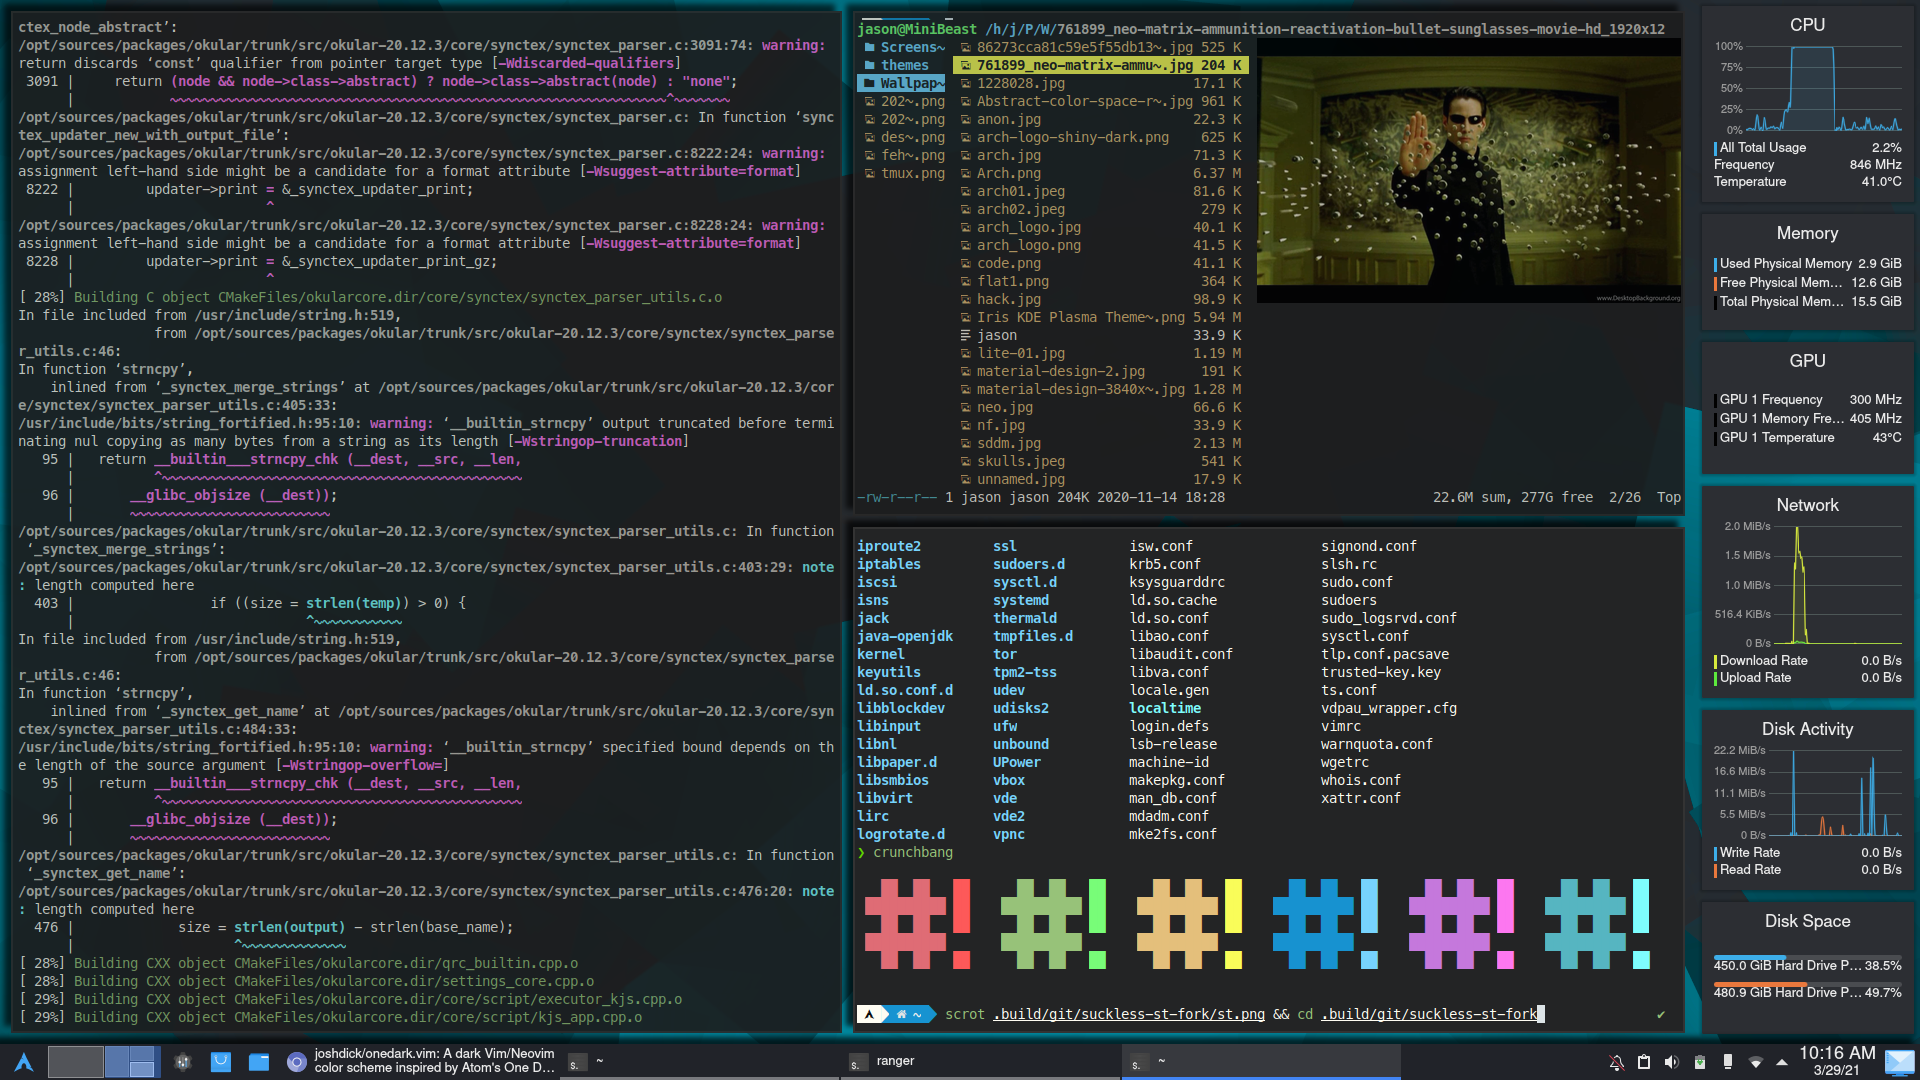
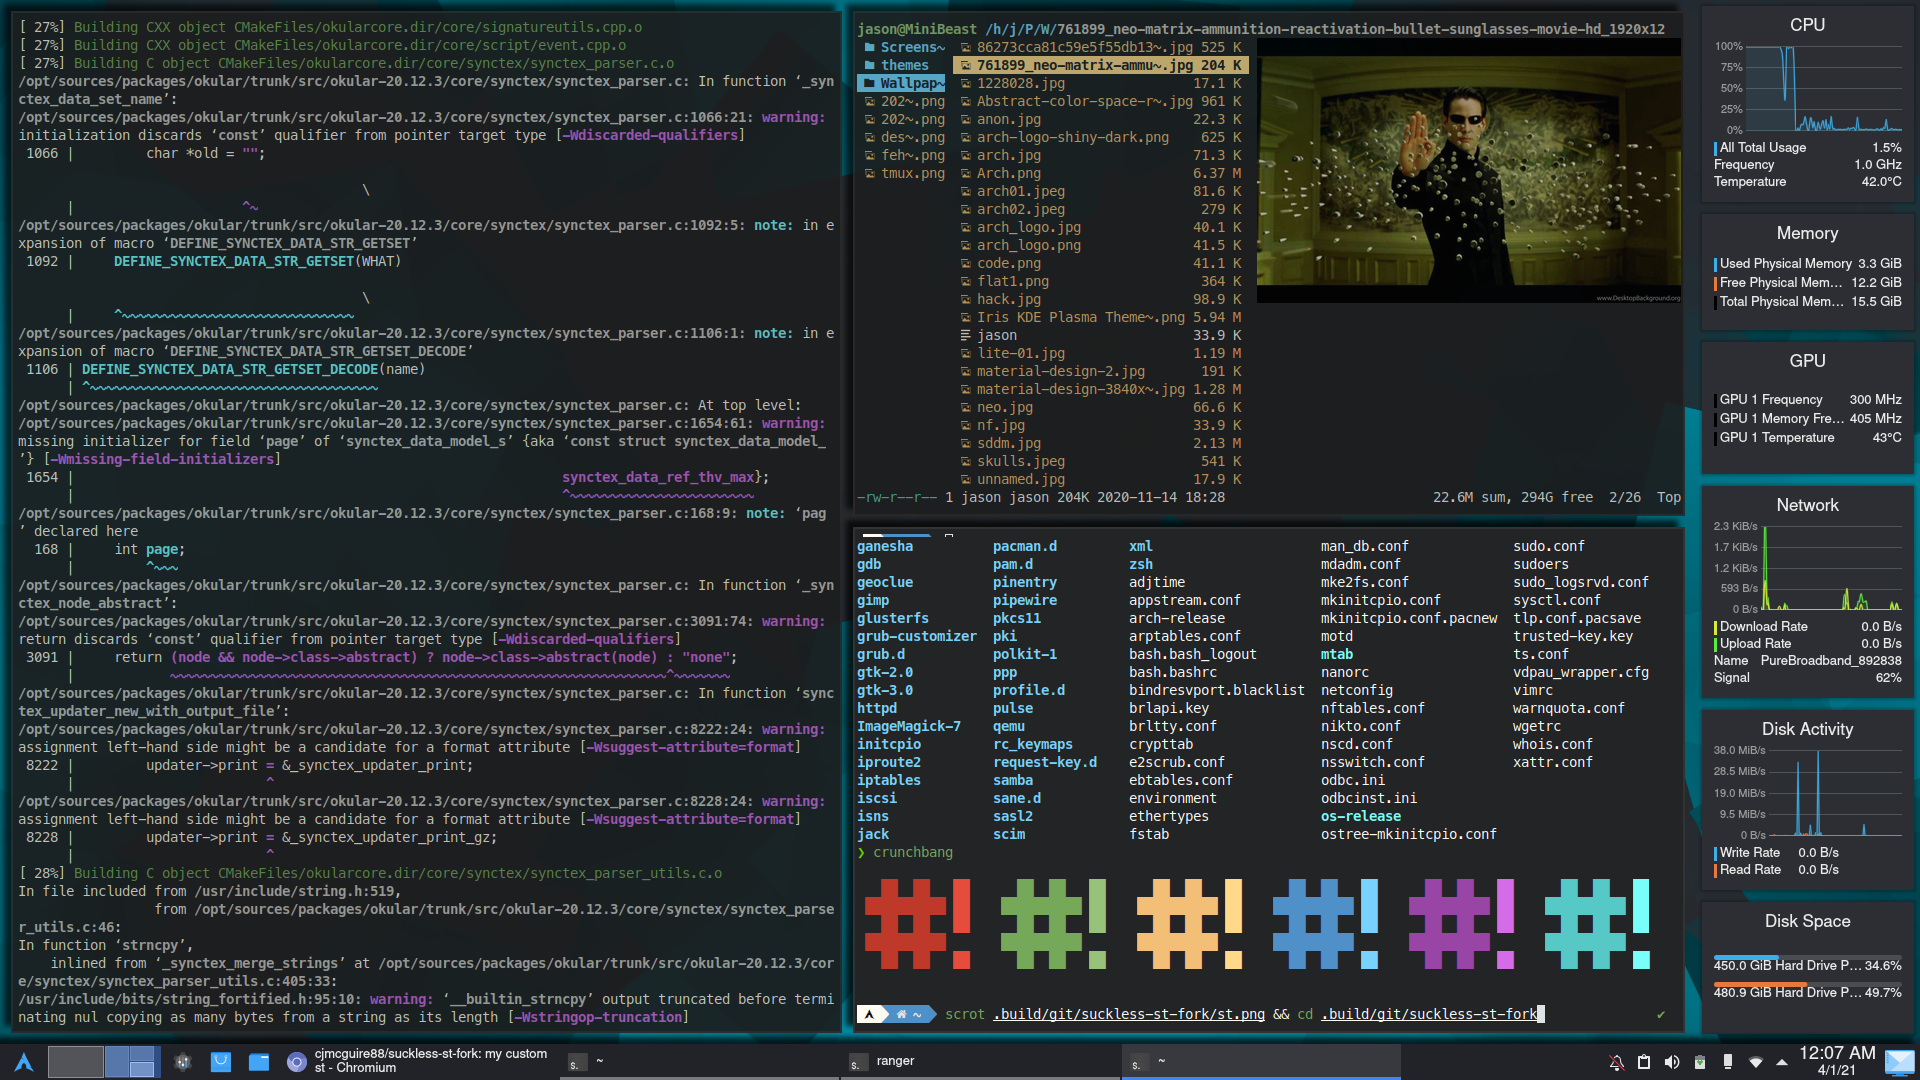
4/1/21

diff --git a/config.h b/config.h
@@ -104,22 +104,22 @@ static const char *colorname[] = {
 
   /* 8 normal colors */
   [0] = "#232425", /* black   */
-  [1] = "#c04545", /* red     */
-  [2] = "#58c059", /* green   */
-  [3] = "#cac347", /* yellow  */
-  [4] = "#1793d1", /* blue    */
-  [5] = "#c35bc3", /* magenta */
-  [6] = "#5abbc1", /* cyan    */
+  [1] = "#c0392b", /* red     */
+  [2] = "#75a959", /* green   */
+  [3] = "#f4bf75", /* yellow  */
+  [4] = "#4e91c8", /* blue    */
+  [5] = "#9a45a6", /* magenta */
+  [6] = "#56cac8", /* cyan    */
   [7] = "#fffdf3", /* white   */
 
   /* 8 bright colors */
   [8]  = "#6f6c67", /* black   */
-  [9]  = "#fe5959", /* red     */
-  [10] = "#78fe78", /* green   */
-  [11] = "#fafe59", /* yellow  */
+  [9]  = "#e74c3c", /* red     */
+  [10] = "#98c379", /* green   */
+  [11] = "#ffda8b", /* yellow  */
   [12] = "#77d4fe", /* blue    */
-  [13] = "#fe77f1", /* magenta */
-  [14] = "#7efefe", /* cyan    */
+  [13] = "#d46ce7", /* magenta */
+  [14] = "#7afffa", /* cyan    */
   [15] = "#cac8c0", /* white   */
 
   /* special colors */
